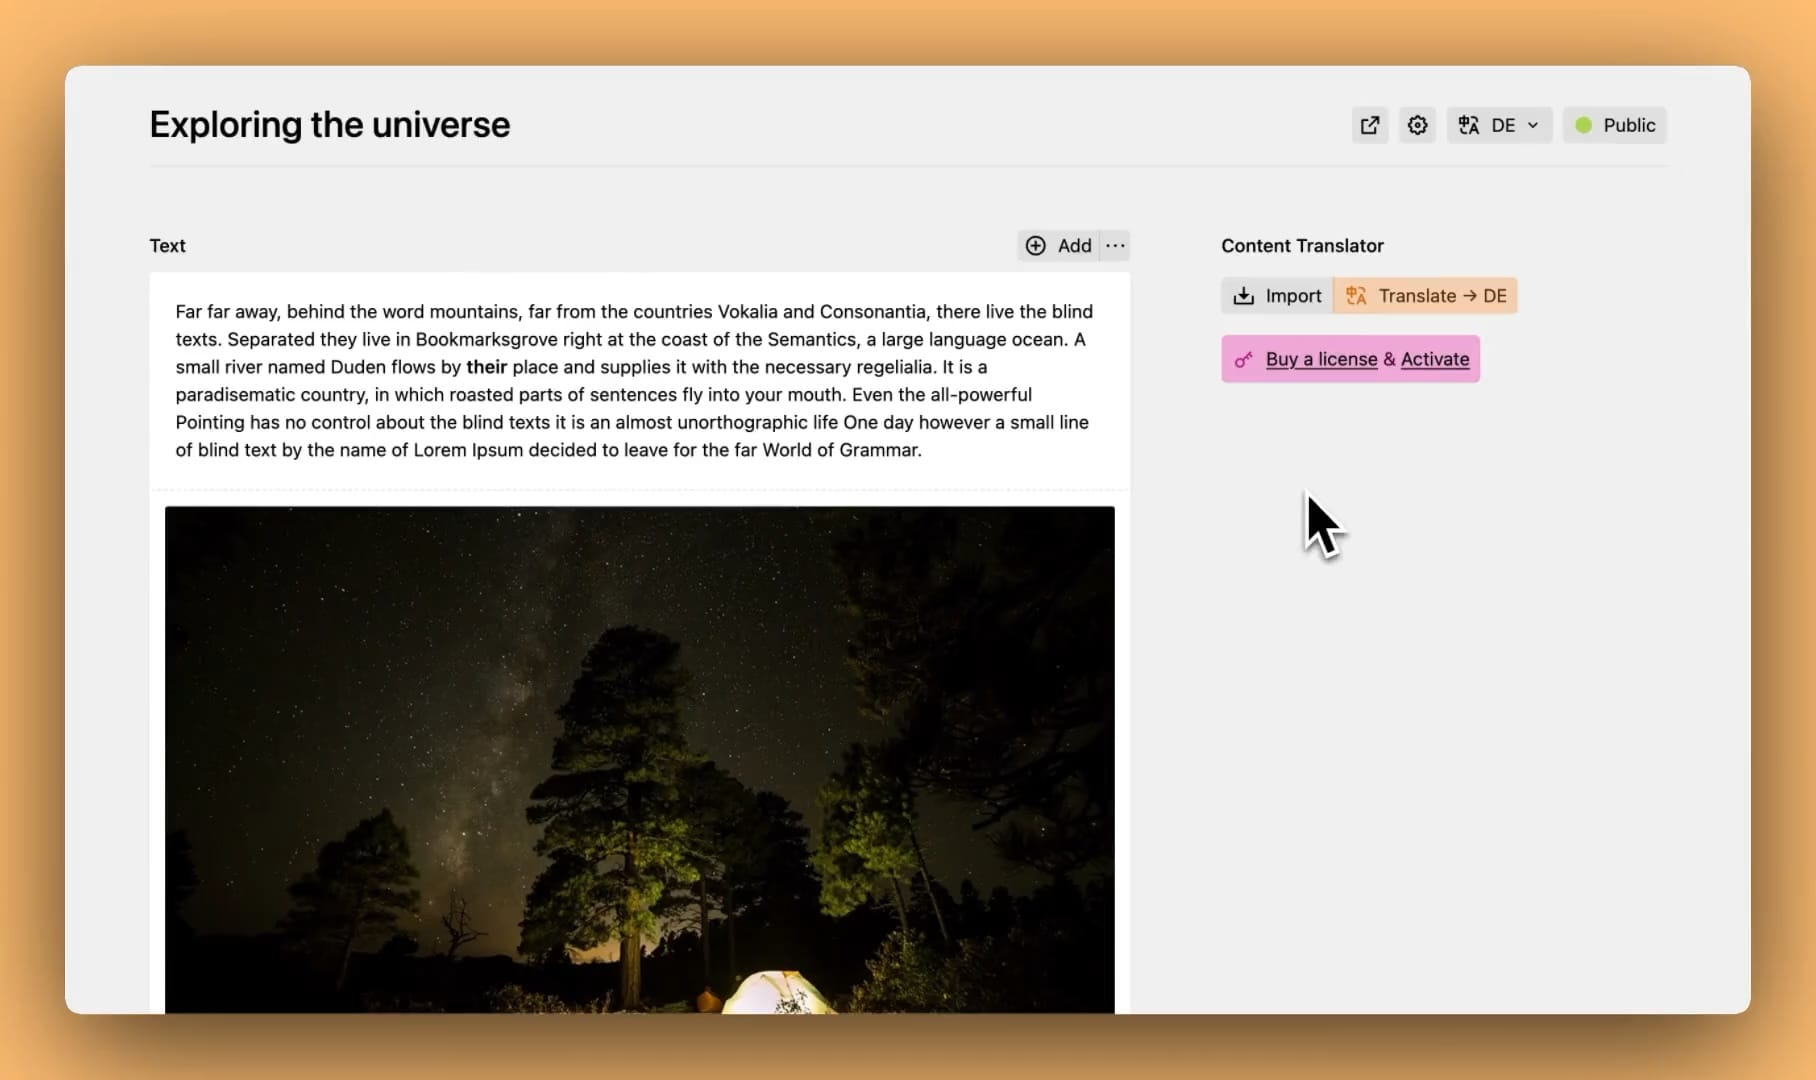
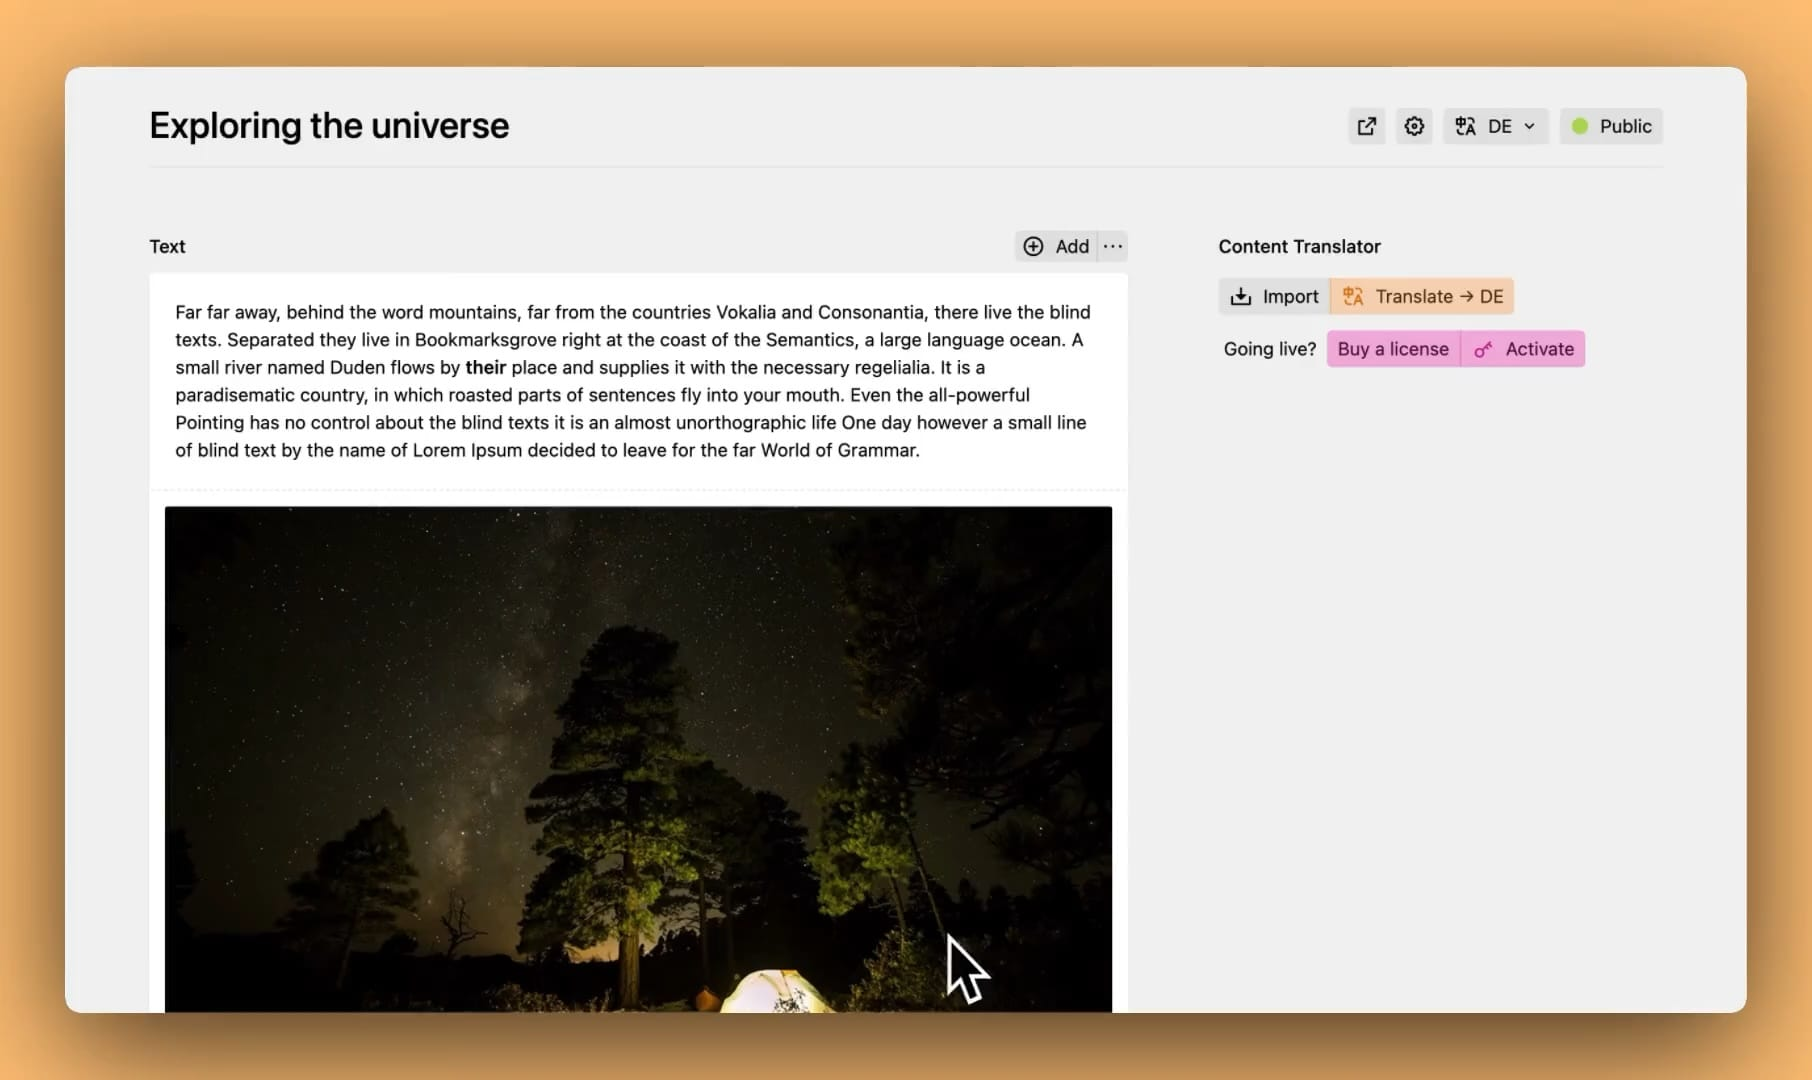
docs: update content translator activation assets

diff --git a/content/1.docs/2.content-translator/1.index.md b/content/1.docs/2.content-translator/1.index.md
@@ -56,14 +56,9 @@ sections:
     type: content-translator
 ```
 
-This will add a new section to the Panel where you can import and translate content. The section will look like this in development environments:
+This will add a new section to the Panel where you can import and translate content. Note that during the testing process, a license notice will be displayed below the translation buttons. You can remove this notice by purchasing a license.
 
-::preview{src="/img/kirby-content-translator-section-localhost.png"}
-::
-
-On published websites, the section will slightly change to indicate that the plugin is not activated:
-
-::preview{src="/img/kirby-content-translator-section-production.png"}
+::preview{src="/img/kirby-content-translator-section-activate.png"}
 ::
 
 ### Step 4: Translate Your Content

diff --git a/content/1.docs/2.content-translator/4.changelog.md b/content/1.docs/2.content-translator/4.changelog.md
@@ -15,9 +15,13 @@ If you have downloaded the plugin as a ZIP file, you can download the latest ver
 
 ## What's New?
 
-### v2.1.7 :u-badge{label="Latest" class="align-middle ml-2 !rounded-full" variant="subtle"}
+### v2.1.9 :u-badge{label="Latest" class="align-middle ml-2 !rounded-full" variant="subtle"}
 
-Released on June 16, 2024.
+Released on June 17, 2024.
+
+**🚀 Features**
+
+- Visually imprived license activation notice.
 
 **🐞 Bug Fixes**
 
